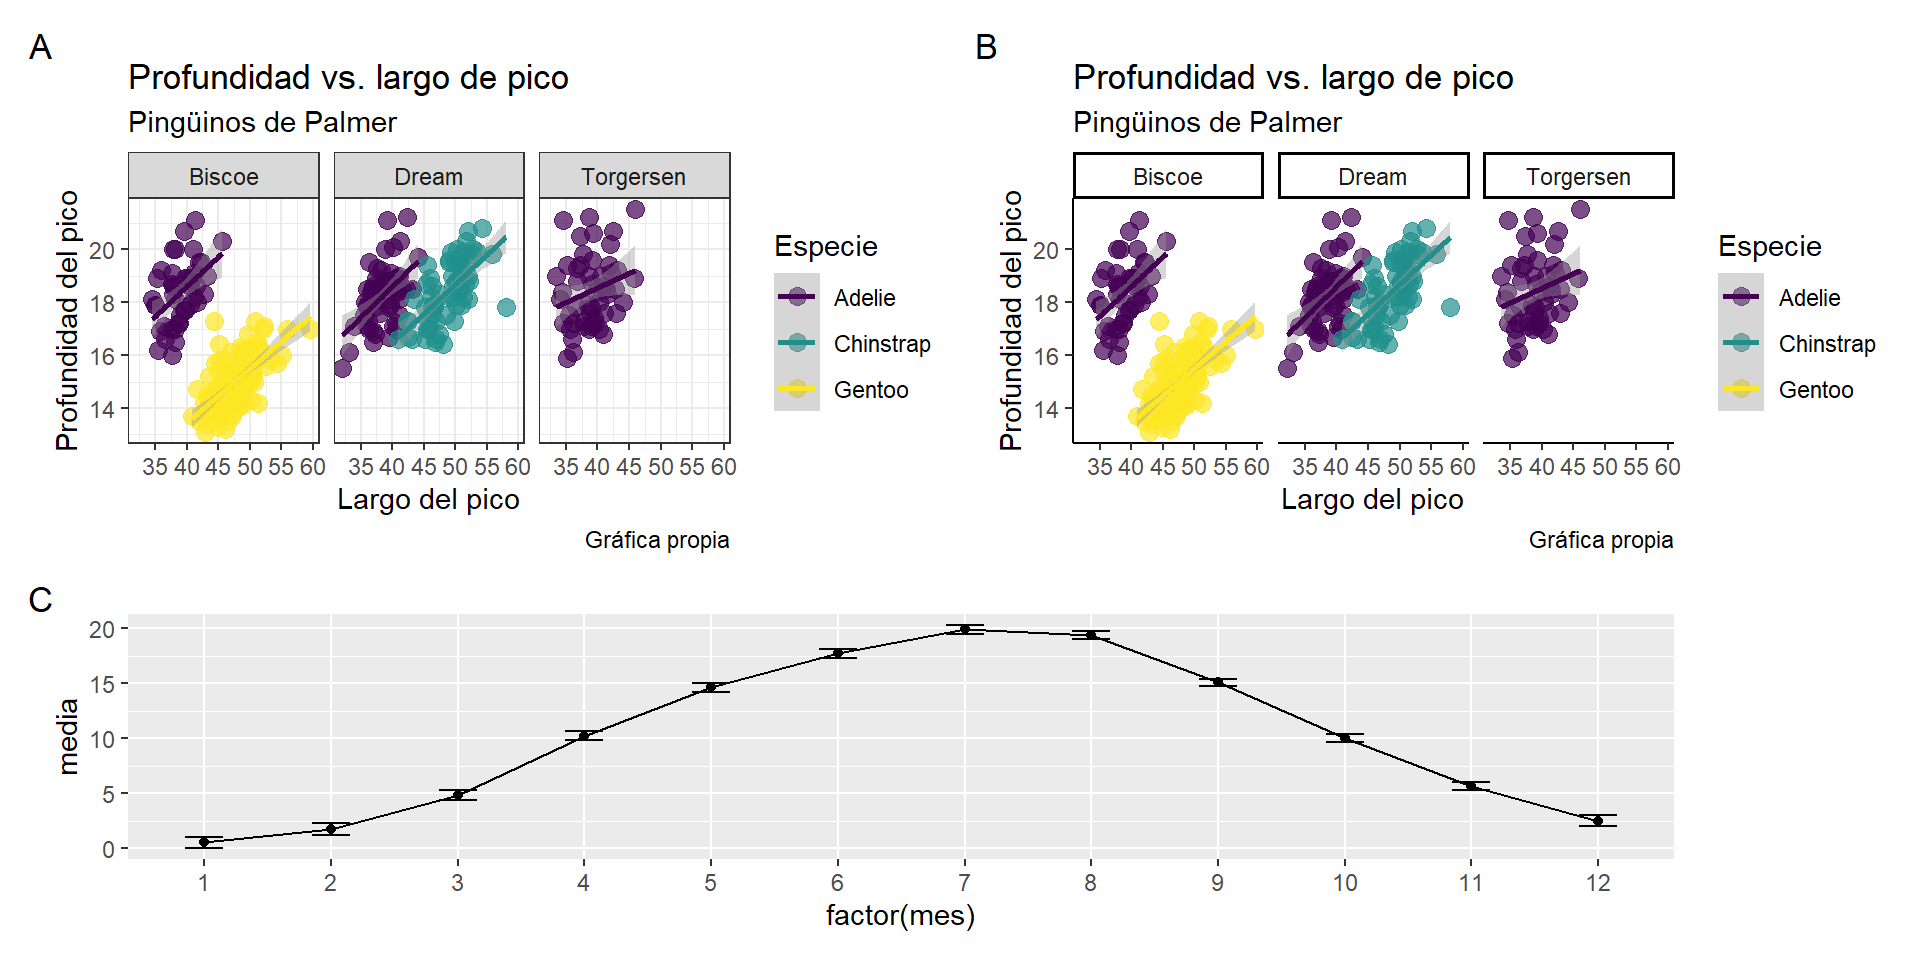
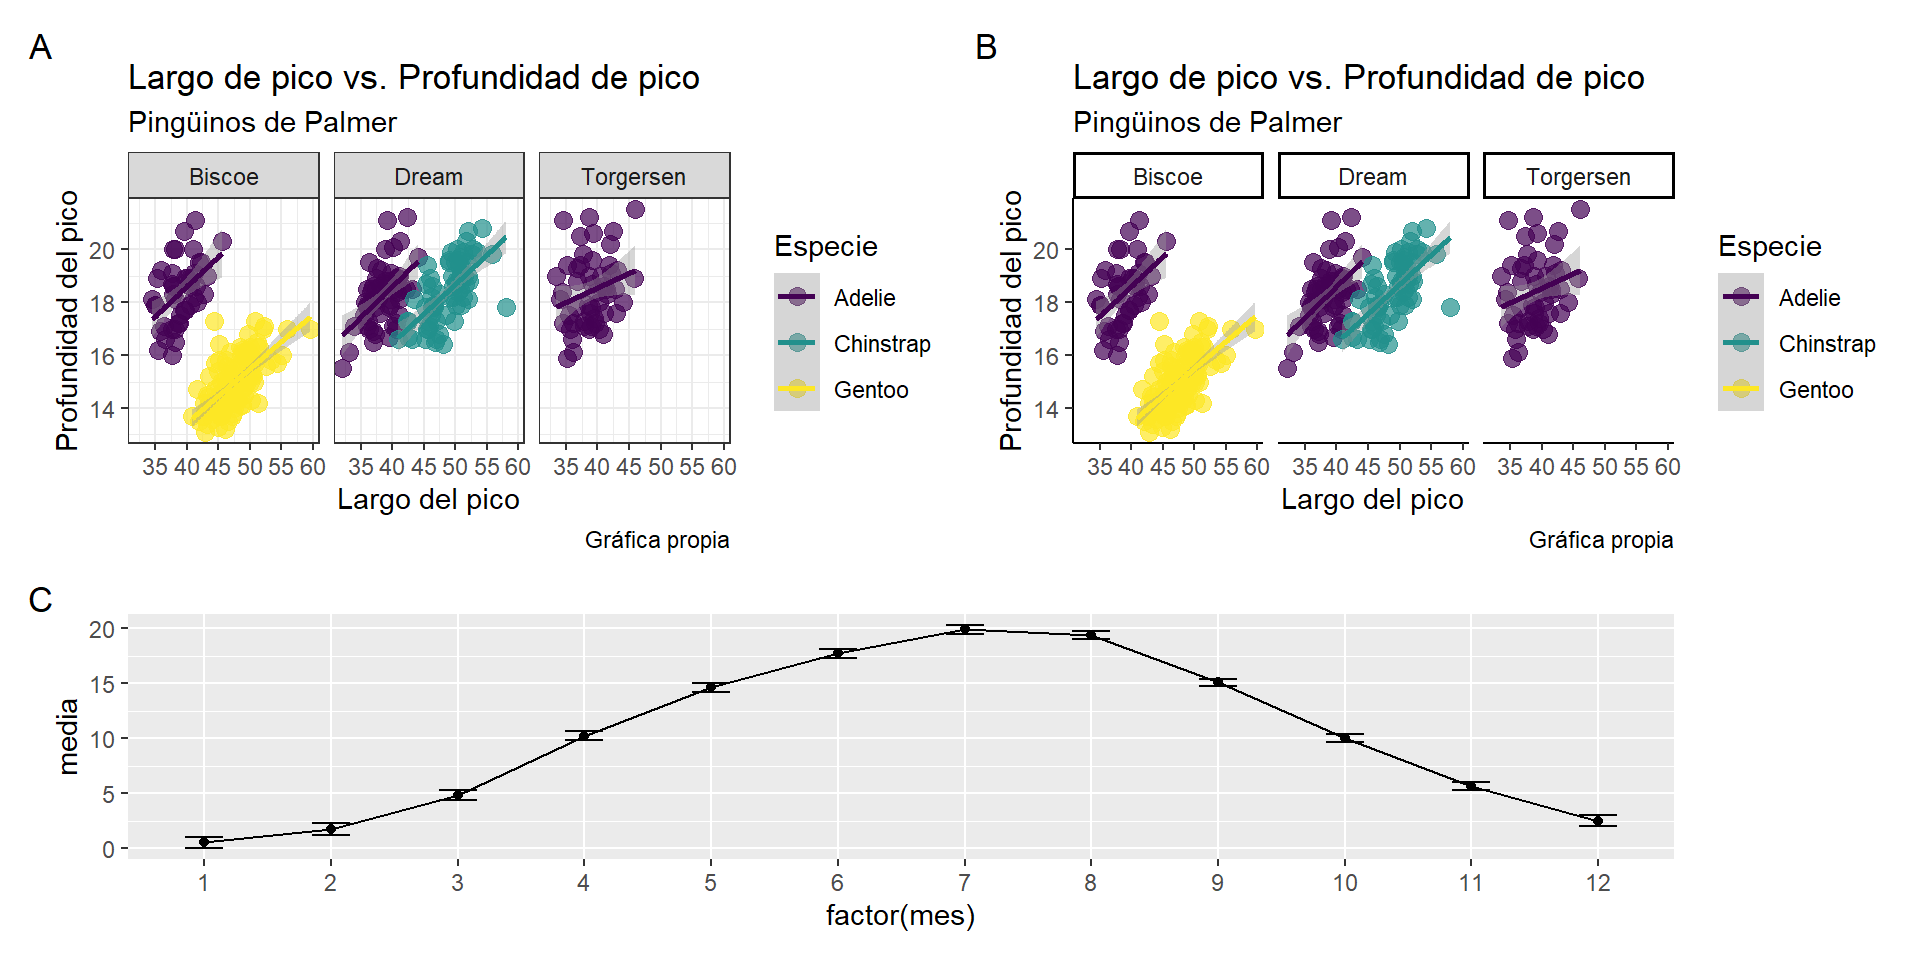
comi

Changed region(s): [[0.5625, 0.0625, 0.875, 0.0938], [0.0625, 0.0625, 0.375, 0.0938]]

diff --git a/docs/index.html b/docs/index.html
@@ -750,7 +750,7 @@ Mauricio Moreno, PhD
 <span id="cb10-7"><a href="#cb10-7"></a>  <span class="fu">scale_y_continuous</span>(<span class="at">breaks =</span> <span class="fu">seq</span>(<span class="dv">10</span>, <span class="dv">24</span>, <span class="dv">2</span>)) <span class="sc">+</span></span>
 <span id="cb10-8"><a href="#cb10-8"></a>  <span class="fu">scale_color_viridis</span>(<span class="at">discrete =</span> T) <span class="sc">+</span></span>
 <span id="cb10-9"><a href="#cb10-9"></a>  <span class="fu">facet_wrap</span>(<span class="sc">~</span>island) <span class="sc">+</span></span>
-<span id="cb10-10"><a href="#cb10-10"></a>  <span class="fu">labs</span>(<span class="at">title =</span> <span class="st">"Largo de pico vs. profundidad de pico"</span>,</span>
+<span id="cb10-10"><a href="#cb10-10"></a>  <span class="fu">labs</span>(<span class="at">title =</span> <span class="st">"Largo de pico vs. Profundidad de pico"</span>,</span>
 <span id="cb10-11"><a href="#cb10-11"></a>       <span class="at">subtitle =</span> <span class="st">"Pingüinos de Palmer"</span>,</span>
 <span id="cb10-12"><a href="#cb10-12"></a>       <span class="at">caption =</span> <span class="st">"Gráfica propia"</span>,</span>
 <span id="cb10-13"><a href="#cb10-13"></a>       <span class="at">x =</span> <span class="st">"Largo del pico"</span>,</span>
@@ -788,7 +788,7 @@ Mauricio Moreno, PhD
 <span id="cb11-7"><a href="#cb11-7"></a>  <span class="fu">scale_y_continuous</span>(<span class="at">breaks =</span> <span class="fu">seq</span>(<span class="dv">10</span>, <span class="dv">24</span>, <span class="dv">2</span>)) <span class="sc">+</span></span>
 <span id="cb11-8"><a href="#cb11-8"></a>  <span class="fu">scale_color_viridis</span>(<span class="at">discrete =</span> T) <span class="sc">+</span></span>
 <span id="cb11-9"><a href="#cb11-9"></a>  <span class="fu">facet_wrap</span>(<span class="sc">~</span>island) <span class="sc">+</span></span>
-<span id="cb11-10"><a href="#cb11-10"></a>  <span class="fu">labs</span>(<span class="at">title =</span> <span class="st">"Largo de pico vs. profundidad de pico"</span>,</span>
+<span id="cb11-10"><a href="#cb11-10"></a>  <span class="fu">labs</span>(<span class="at">title =</span> <span class="st">"Largo de pico vs. Profundidad de pico"</span>,</span>
 <span id="cb11-11"><a href="#cb11-11"></a>       <span class="at">subtitle =</span> <span class="st">"Pingüinos de Palmer"</span>,</span>
 <span id="cb11-12"><a href="#cb11-12"></a>       <span class="at">caption =</span> <span class="st">"Gráfica propia"</span>,</span>
 <span id="cb11-13"><a href="#cb11-13"></a>       <span class="at">x =</span> <span class="st">"Largo del pico"</span>,</span>
